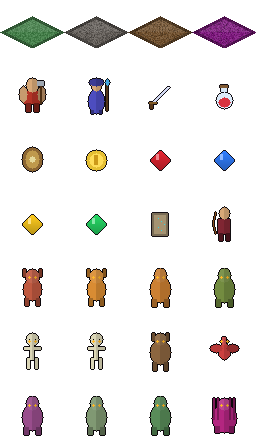
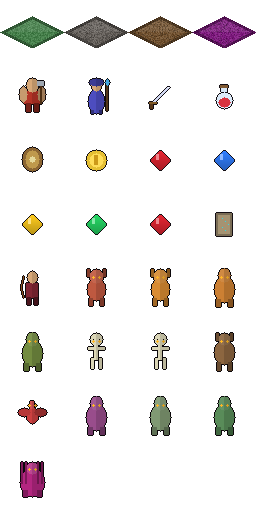
Scale drop ilvl and kill XP by difficulty; fix missing skull atlas asset
Monster level itself stays difficulty-flat (it feeds chance_to_hit's
alvl/dlvl both ways, and Hell autoquit smokes already show low kill
counts), so only the reward channels scale: diff_reward_ilvl_bonus
(0/4/8) on drop rolls, diff_xp_mult (1.0/1.25/1.5) on all five kill-XP
grant sites via a new _kill_xp() helper. Normal stays identity.

Also fixes a real regression from the socket-activation round: adding
"skull" to the drop pool without a precompiled atlas icon caused
[ASSET] "ok": false on any run where it dropped -- undetected before
now because grep -i fail doesn't match the lowercase "ok": false token.
Added the skull icon recipe and republished the atlas (28 -> 29 entries,
updating the two hardcoded assertions that depended on the old count).

Also ran tools/progression_combat_test.gd for the first time this
session's six feature rounds and recorded it as a permanent step in the
deployment workflow.

diff --git a/docs/PROJECT_MEMORY.md b/docs/PROJECT_MEMORY.md
@@ -1,6 +1,6 @@
 # 프로젝트 메모리
 
-최종 갱신: 2026-10-04 (소켓 시스템 활성화 배포)
+최종 갱신: 2026-10-04 (난이도별 보상 스케일링 배포)
 
 ## 맵 생성 상태
 
@@ -16,20 +16,21 @@
 
 - `MAP_VARIANTS`: PASS
 - `STREAM`: PASS
-- `SYSTEM`: 112 checks PASS (큐브·감정·저항 효과·참 듀얼 슬롯 회귀 포함, 실행 횟수 자동 집계)
+- `SYSTEM`: 114 checks PASS (큐브·감정·저항 효과·참 듀얼 슬롯·난이도 보상 회귀 포함, 실행 횟수 자동 집계)
 - `SAVE`: 24 checks PASS
+- `PROGRESSION_COMBAT`(통합 회귀): PASS
 - Web 릴리스 검사: PASS
 - 원격 PCK 해시 일치 확인: PASS
 
 ## 배포 정보
 
 - 플레이 URL: https://jflakeee.github.io/diablo/
-- 배포 표시 시각: `2026-10-04 16:04 KST`
-- 소스 커밋: 소켓 시스템 활성화(본 커밋)
-- 최신 배포 커밋: `dd82494` (gh-pages)
+- 배포 표시 시각: `2026-10-04 17:24 KST`
+- 소스 커밋: 난이도별 보상 스케일링 + 아틀라스 수정(본 커밋)
+- 최신 배포 커밋: `8cf0984` (gh-pages)
 - Pages 빌드 상태: `built` (`gh api repos/jflakeee/diablo/pages/builds/latest`), 루트 HTTP 200 확인
[1 lines of base64/hex data omitted]
-- 원격 PCK 1,267,932 bytes 및 로컬 빌드 해시 일치 확인.
[1 lines of base64/hex data omitted]
+- 원격 PCK 1,269,068 bytes 및 로컬 빌드 해시 일치 확인.
 
 ## 다음 점검 항목
 
@@ -308,3 +309,29 @@
   `[CUBE_UI] ... socket=true verdict=PASS`.
 - Web release export → gh-pages 배포 커밋 `dd82494`, Pages 빌드 `built`, 루트 HTTP 200,
   로컬/원격 PCK SHA-256(`7ac8ffb0...`) 일치 확인.
+
+## 2026-10-04 난이도별 보상 스케일링 + 자산 파이프라인 결함 수정 (원격 배포 완료)
+
+- 설계 문서: `docs/superpowers/specs/2026-10-04-difficulty-reward-scaling-design.md`.
+  advisor 자문 전 검증 부채 점검에서 "통합 회귀 검사"(`tools/progression_combat_test.gd`)가
+  이번 세션 6개 기능 라운드 내내 한 번도 실행되지 않았던 것을 발견 → 재실행 후 PASS
+  확인, 앞으로 매 기능 사이클에 포함하기로 메모리(`deployment-workflow`)에 기록.
+- 몬스터 레벨(`m.level`)은 난이도와 무관하게 고정값(명중률 alvl/dlvl 균형을 건드리지
+  않기 위해 의도적으로 유지)인데, 드롭 아이템레벨과 킬 경험치가 거기 묶여 있어 Hell이
+  "위험만 늘고 보상은 그대로"였다. `combat.gd`에 `diff_reward_ilvl_bonus`(0/4/8)와
+  `diff_xp_mult`(1.0/1.25/1.5) 순수 함수 추가, `main.gd _kill_xp()` 헬퍼로 경험치
+  지급 5곳(플레이어 근접/투사체/스톰랜스, 용병 원거리/근접)을 전부 교체, 드롭 롤의
+  `mlvl`에 보너스 가산.
+- **부수 발견(실제 버그)**: 검증 중 sorc 오토퀴트가 `[ASSET] ... "ok": false, "missing":
+  ["icon/skull","static/skull"]`로 최종 verdict=FAIL — 지난 라운드(소켓 시스템 활성화)에서
+  드롭 재료 풀에 추가한 "skull"이 사전 컴파일 아틀라스(28개 고정 항목)에 없어서 생긴
+  결함이었다. `grep -i fail`로는 소문자 `"ok": false`를 못 잡는다는 것도 이때 실측으로
+  확인(앞으로 전체 로그를 직접 훑거나 `[GD][RESULT] verdict=` 최종 줄을 반드시 확인).
+  `art/art_recipes.json`에 skull 아이콘 레시피 추가 → `tools/asset_compiler.tscn`을
+  `-- autoquit verify publish`로 재실행해 아틀라스 재생성(28→29 항목) → 하드코딩된
+  항목 수 단언(`asset_catalog.gd`/`tools/asset_compiler.gd`)도 28→29로 함께 수정.
+- 검증: `system_tests.gd`에 두 순수 함수 경계값 테스트 추가(checks 112→114, 최종 ok에
+  자동 편입). barb/sorc 표준 오토퀴트 + `autoquit barb/sorc hell` + 통합 회귀 검사
+  전부 PASS, `[ASSET] ... "ok": true` 확인.
+- Web release export → gh-pages 배포 커밋 `8cf0984`, Pages 빌드 `built`, 루트 HTTP 200,
+  로컬/원격 PCK SHA-256(`6ee54f81...`) 일치 확인.

diff --git a/docs/superpowers/specs/2026-10-04-difficulty-reward-scaling-design.md b/docs/superpowers/specs/2026-10-04-difficulty-reward-scaling-design.md
@@ -1,0 +1,61 @@
+# 난이도별 보상 스케일링 (아이템레벨 + 경험치)
+
+작성일: 2026-10-04
+대상: `prototype/game_dungeon`
+상태: 구현 기준 확정
+
+## 1. 목표
+
+몬스터 HP(`diff_monster_hp_mult`)와 저항(`diff_monster_resist_bonus`, 2026-10-04 Hell
+면역 작업)은 난이도별로 스케일링되지만, 몬스터 "레벨" 자체(`m.level`)는 난이도와 무관하게
+`data/monsters.json`의 고정값이었다. 그 결과 드롭 아이템레벨(`Item.roll_drop(_rng, mlvl,
+mf)`의 `mlvl`)과 킬 경험치(`target.level * 40`)가 Normal/NM/Hell에서 전부 동일했다 —
+Hell이 위험만 늘고 보상은 하나도 안 느는 상태였다.
+
+## 2. 왜 몬스터 레벨 자체를 올리지 않는가
+
+`m.level`은 `CombatLib.chance_to_hit(ar, defense, alvl, dlvl)`의 양쪽(공격자 alvl, 수비자
+dlvl)에 전부 들어간다. 몬스터 레벨을 올리면 명중률 균형 전체가 바뀌어 버리고, 실측으로도
+위험하다: Hell 오토퀴트 스모크 로그(2026-10-04 면역 작업)가 이미 barb kills=4, sorc
+kills=1(50초)로 낮았다 — 여기서 몬스터 레벨까지 올리면 Hell 오토퀴트가 거의 킬 0으로
+퇴화할 위험이 있다. 그래서 "위험"(HP/저항/명중 균형)은 그대로 두고 "보상"(드롭
+아이템레벨/경험치)만 난이도에 비례해 올린다.
+
+## 3. 완료 조건
+
+1. 드롭 아이템레벨에 난이도 보너스(`diff_reward_ilvl_bonus`: Normal+0/NM+4/Hell+8)가
+   더해진다 — 챔피언/유니크의 기존 ilvl 보너스(+2/+3)와 누적된다.
+2. 몬스터를 처치할 때 얻는 경험치에 난이도 배율(`diff_xp_mult`: Normal x1.0/NM x1.25/
+   Hell x1.5)이 적용된다. 경험치를 주는 **모든** 경로(플레이어 근접/투사체/스톰랜스,
+   용병 원거리/근접 킬 — 총 5곳)에 빠짐없이 적용한다.
+3. Normal(난이도 0)은 두 함수 모두 항등(보너스 0 / 배율 1.0)이라 기존 오토퀴트 baseline과
+   완전히 동일하게 동작한다.
+4. 몬스터 레벨(`m.level`)과 그에 따른 명중률 계산은 전혀 건드리지 않는다.
+
+## 4. 범위와 비범위
+
+### 범위
+- `combat.gd`: `diff_reward_ilvl_bonus(diff)`, `diff_xp_mult(diff)` 순수 함수 2개
+- `main.gd`: `_kill_xp(level)` 헬퍼(5개 경험치 지급 지점이 전부 이걸 거치도록 교체),
+  몬스터 사망 시 드롭 롤의 `mlvl` 계산에 `diff_reward_ilvl_bonus` 가산
+- `system_tests.gd`: 두 순수 함수의 경계값 단위테스트(자동으로 최종 ok에 집계)
+
+### 비범위
+- 몬스터 레벨/명중률 스케일링(위 2절 — 의도적으로 손대지 않음)
+- 퀘스트 보상 골드/스킬포인트 난이도 스케일링(이미 `_act * 300` 형태로 액트에 비례,
+  난이도와는 별개 축이라 이번 범위 밖)
+- NM/Hell 보너스 수치의 정밀 밸런싱(합리적 기본값만 설정 — 플레이 테스트로 추후 조정
+  가능하도록 순수 함수로 분리해 둠)
+
+## 5. 검증
+
+- `system_tests.gd`: `diff_reward_ilvl_bonus(0/1/2)==0/4/8`, `diff_xp_mult(0/1/2)==
+  1.0/1.25/1.5` 경계값 확인(`_check()` 자동 집계, 최종 `[SYSTEM] ok`에 이미 편입된 구조라
+  별도 배선 불필요).
+- barb/sorc 표준(Normal) 오토퀴트로 baseline 동작 불변 확인(배율 1.0/보너스 0이므로
+  결과가 이전과 동일해야 함).
+- `autoquit barb hell`/`autoquit sorc hell` 재실행으로 보상 경로가 실제로 작동하고
+  크래시 없는지 확인.
+- `tools/progression_combat_test.gd`(통합 회귀 검사)를 이번 라운드부터 매 기능 검증
+  사이클에 포함하기로 함(README에 "통합 회귀 검사"로 문서화돼 있었지만 이 세션의 지난
+  6개 기능 라운드 동안 한 번도 실행되지 않았던 검증 부채를 이번에 처음 재발견·실행).

diff --git a/prototype/game_dungeon/README.md b/prototype/game_dungeon/README.md
@@ -107,6 +107,9 @@ UI 회귀 검사: `godot_console --headless --path prototype/game_dungeon --scri
   fire/cold/light 저항을 100 이상으로 올려 실제 면역을 만든다(독은 난이도와 무관하게
   이미 면역 몬스터가 있었다). 위 1/5 면역돌파 공식이 Hell에서 처음으로 실전 발동한다.
   `_immune_selftest()`가 정적 데이터로 Hell=전부 면역/Normal·NM=전부 비면역을 검증한다.
+- **난이도별 보상**: 몬스터 레벨 자체는 난이도와 무관하게 고정(명중률 alvl/dlvl 균형
+  보존)이지만, 드롭 아이템레벨(+0/+4/+8)과 킬 경험치(x1.0/x1.25/x1.5)는 난이도에 비례해
+  오른다. Normal은 두 값 모두 항등이라 기존 동작과 완전히 동일하다.
 
 통합 회귀 검사:
 `godot_console --headless --path prototype/game_dungeon --script res://tools/progression_combat_test.gd`
